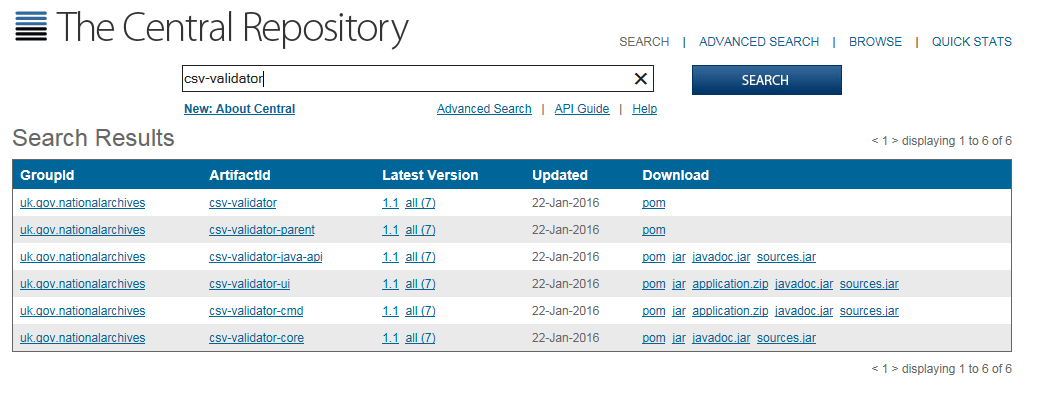
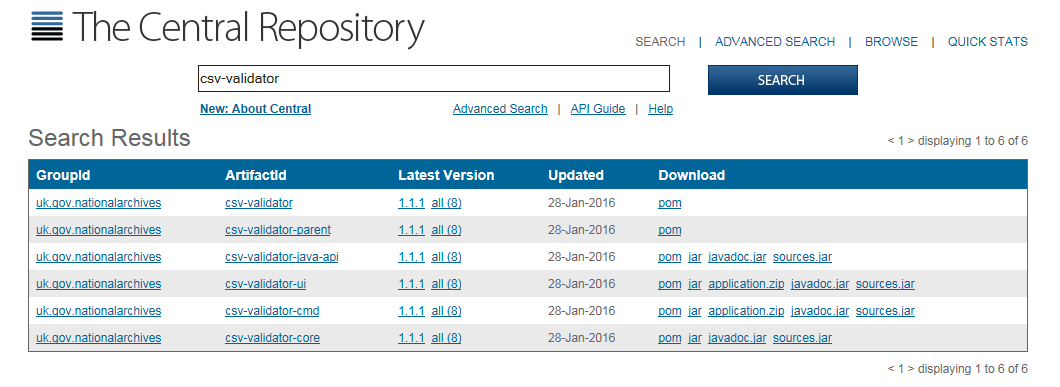
update to reflect 1.1.1 release commit dea22fa

diff --git a/index.html b/index.html
@@ -58,7 +58,7 @@
         </div>
       	<p class="lead"><code>CSV Validator</code> is a CSV validation and reporting tool which implements <a href="http://digital-preservation.github.io/csv-schema"><code>CSV Schema Language</code></a>. 
 		Released as Open Source under the <a href="http://www.mozilla.org/MPL/2.0/">Mozilla Public Licence version 2.0</a>.
-		This page is for CSV Validator 1.1, the equivalent page for the previous 1.0 release is now to be found at <a href="http://digital-preservation.github.io/csv-validator/csv-validator-1.0.html">csv-validator-1.0.html</a>.</p>
+		This page is for CSV Validator 1.1 (and related minor releass), the equivalent page for the previous 1.0 release is now to be found at <a href="http://digital-preservation.github.io/csv-validator/csv-validator-1.0.html">csv-validator-1.0.html</a>.</p>
         <div id="toc"></div>
         <div>
             <h2>Overview</h2>
@@ -105,7 +105,7 @@
 				<p>
 				The core of the CSV Validator is written in Scala 2.11, Scala runs in the Java Virtual Machine, so requires Java 7 or newer to be installed on your computer in order to run. 
 				The latest release build is automatically published from <a href="http://github.com/digital-preservation/csv-validator">the source code repository on GitHub</a>, 
-				to Maven Central <a href="http://search.maven.org/#search%7Cga%7C1%7Ccsv-validator">currently (25 January 2016), Version 1.1</a>.
+				to Maven Central <a href="http://search.maven.org/#search%7Cga%7C1%7Ccsv-validator">currently (29 January 2016), Version 1.1.1</a>.
 				</p>
 				<a href="http://search.maven.org/#search%7Cga%7C1%7Ccsv-validator"><img src="images/1.1/maven-central.png" alt="Screenshot showing packages in maven Central" id="MavenCentral"></a>
 				<p>
